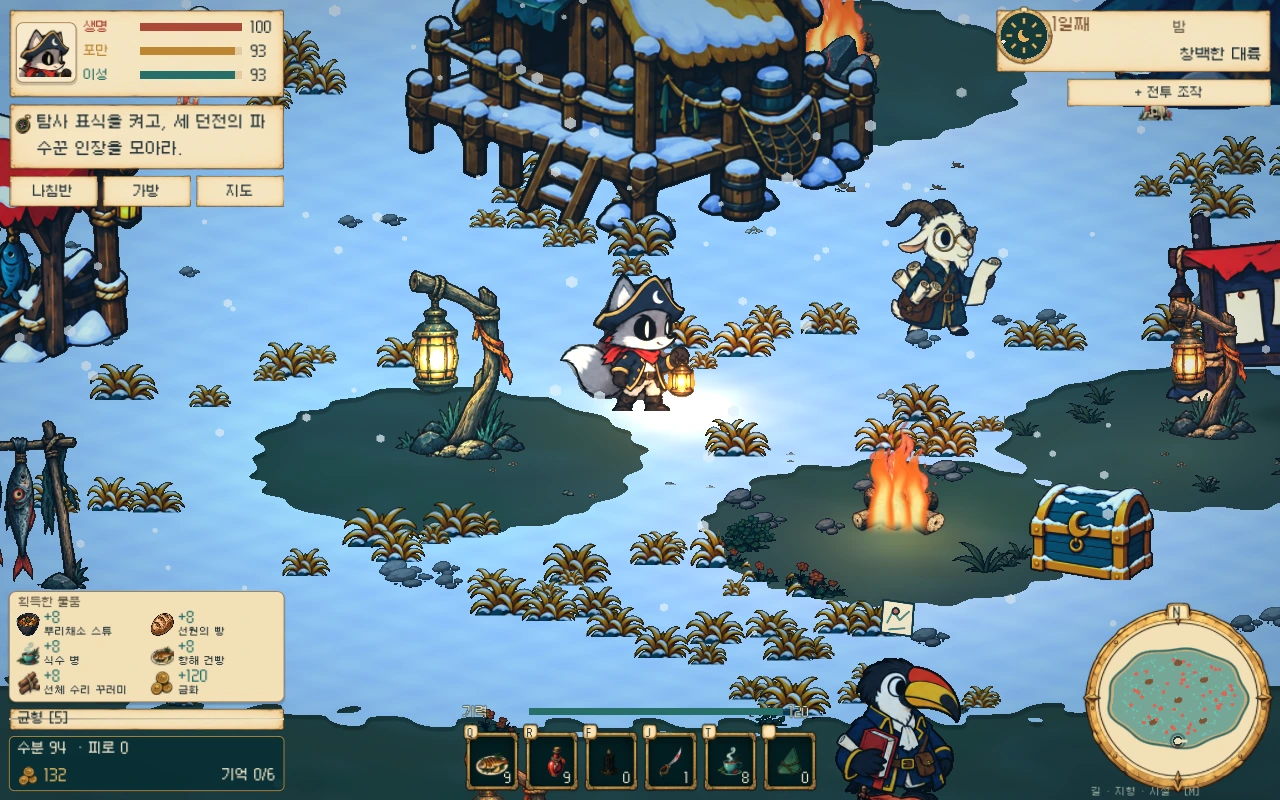
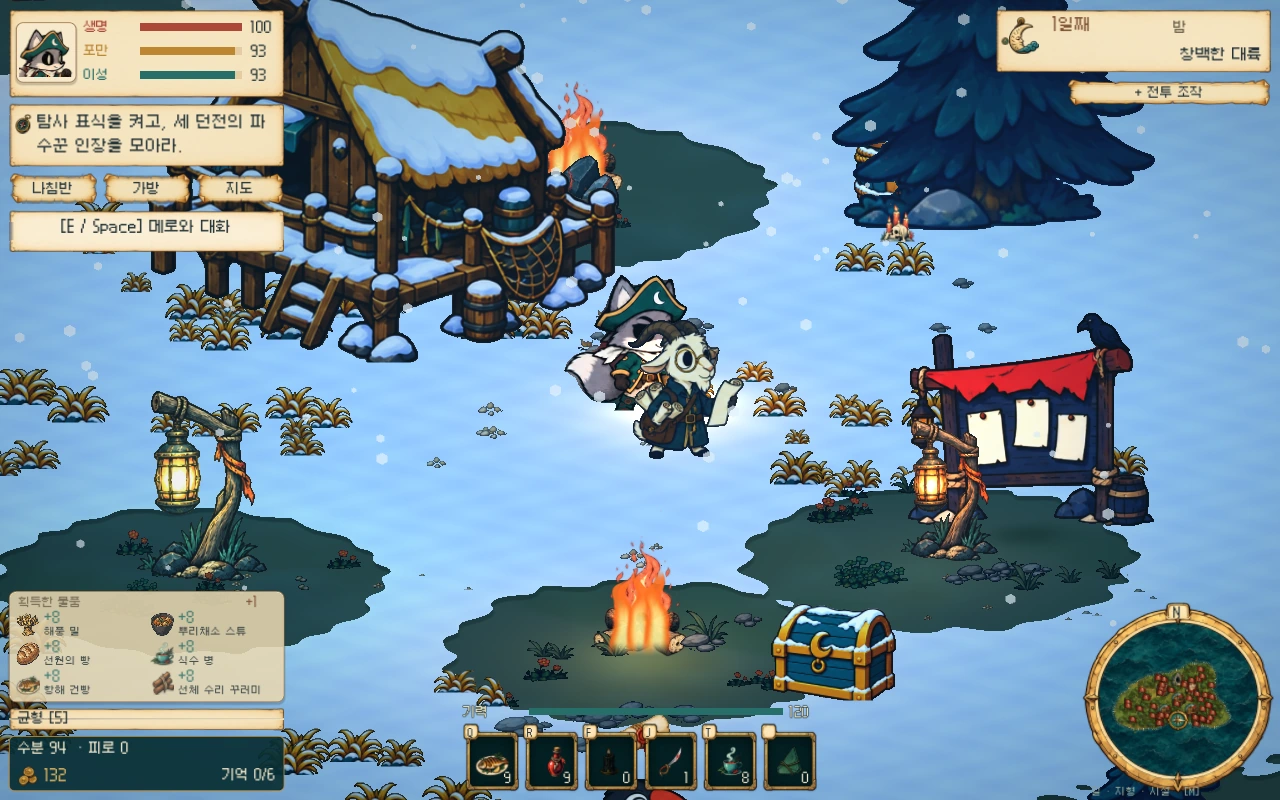
Refresh Outlaw Isles gallery for 0.59.0
Replace all 19 previous screenshots with current Korean gameplay and parchment UI renders. Add secret entrance, secret interior, local terrain map, and companion exploration images (23 screenshots total). Update matching captions and capture provenance. Preserve banner, cover, store links, rating, videos, and other games.

diff --git a/games/outlaw-isles-rogue-tides/MEDIA.md b/games/outlaw-isles-rogue-tides/MEDIA.md
@@ -1,8 +1,8 @@
 # Outlaw Isles: Rogue Tides — 소개 이미지
 
-- 2026-10-22, 게임 버전 0.53.3의 한국어 화면.
-- 스크린샷 19장은 실제 게임 렌더러에서 촬영했습니다. 소개 촬영을 위해 지역·아이템·진행 상태를 준비했으며 연속 캠페인 완주 기록은 아닙니다.
-- 항해일지 UI, 인벤토리, 장비, 설정, NPC 대화, 전투와 결과, 항해, 농사, 낚시, 벌목, 지역 탐험을 포함합니다.
-- 배너와 표지는 현재 게임의 타이틀 원화를 이용해 렌더링한 소개용 이미지입니다.
-- 화면의 비율과 구성을 유지한 WebP 변환입니다. 플레이 화면의 요소를 합성하거나 새로 그려 넣지 않았습니다.
-- 영상 항목은 비워 두었습니다.
+- 2026-10-27, 게임 버전 0.59.0의 한국어 화면.
+- 기존 스크린샷 19장을 최신 화면으로 교체하고 비밀 입구·비밀구역·지역 지도·동행대 이동 장면 4장을 추가했습니다.
+- 스크린샷 23장은 실제 게임 렌더러로 촬영했습니다. 소개 촬영을 위해 지역·아이템·진행 상태를 준비했으며 연속 캠페인 완주 기록은 아닙니다.
+- 양피지 UI, 인벤토리와 장비 외형, NPC 대화와 의뢰, 전투와 결과, 항해와 배 강화, 동행대, 농사·낚시·벌목, 지역 탐험을 포함합니다.
+- 화면 비율과 구성을 유지한 1280×800 WebP 변환입니다. 플레이 화면의 요소를 합성하거나 새로 그려 넣지 않았습니다.
+- 기존 배너·표지는 현재 타이틀 원화와 맞아 유지했습니다. 영상 항목은 비워 두었습니다.
